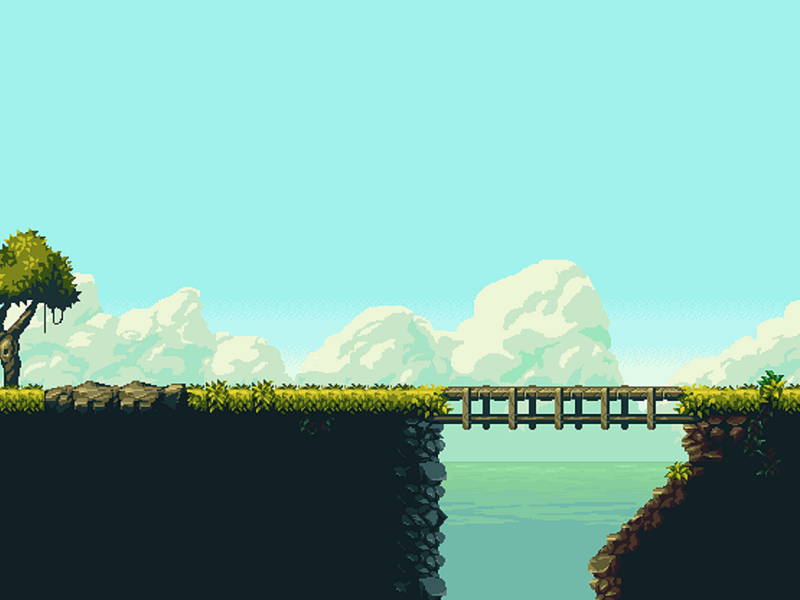
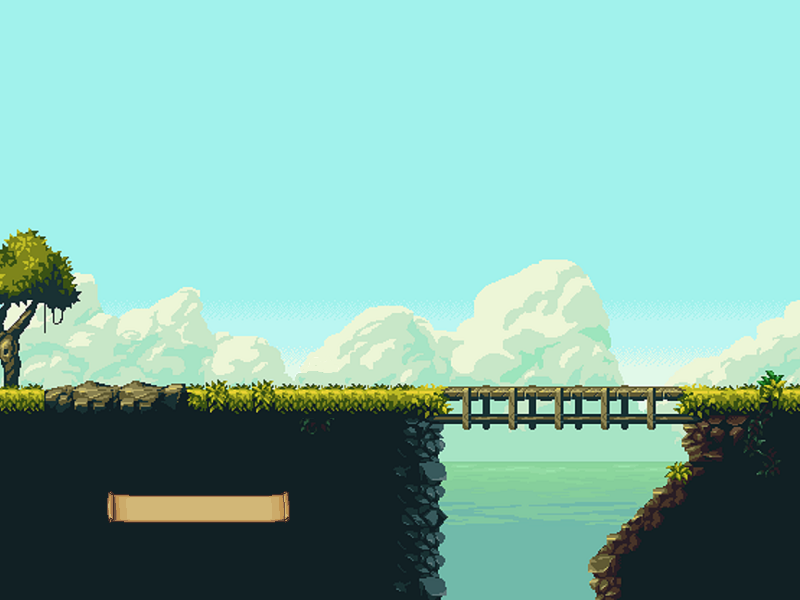
Implementado sistema de puntuacion

Changed region(s): [[0.125, 0.81, 0.375, 0.87]]

diff --git a/Juego.java b/Juego.java
@@ -1,8 +1,9 @@
+import java.util.ArrayList;
+import java.util.Iterator;
 import javafx.application.Application;
 import javafx.stage.Stage;
 import javafx.scene.layout.Pane;
 import javafx.scene.Scene;
-import java.util.ArrayList;
 import javafx.animation.Timeline;
 import javafx.animation.KeyFrame;
 import javafx.util.Duration;
@@ -11,6 +12,7 @@ import javafx.scene.image.Image;
 import javafx.scene.image.ImageView;
 import javafx.scene.input.MouseEvent;
 import javafx.scene.shape.Circle;
+import javafx.scene.control.Label;
 
 public class Juego extends Application
 {
@@ -24,13 +26,16 @@ public class Juego extends Application
     private static final int MILISEGUNDOS_POR_SEGUNDO = 1000;
     private static final ImageView BACKGROUND = new ImageView();
     private static final int DIAMETRO_DISPARO = 5;
-    private static final int TIEMPO_GENERACION_COMIDA = 5; 
+    private static final int TIEMPO_GENERACION_COMIDA = 5;
+    private static final int POSICION_X_PUNTUACION = 150;
+    private static final int POSICION_Y_PUNTUACION = 500;
+    private static final String TEXTO_PUNTUACION = "Puntuacion: ";
     private ArrayList<Enemigo> enemigos;
     private Circle disparo;
     private ArrayList<Objeto> objetos;
-    private int contadorMilisegundos;
+    private int contadorMilisegundos, puntuacion;
     private long contadorSegundos;
-    
+
     public static void main(String[] args){
         launch(args);
     }
@@ -45,13 +50,18 @@ public class Juego extends Application
         primaryStage.setResizable(false);
         primaryStage.sizeToScene();
         panel.getChildren().add(BACKGROUND);
-        
-        // Iniciamos al jugador y la coleccion de objetos:
+
+        // Iniciamos al jugador, la coleccion de objetos y la puntuacion:
         Jugador jugador = new Jugador(ANCHO_DE_LA_ESCENA, ALTO_DE_LA_ESCENA, DISTANCIA_AL_SUELO);
         panel.getChildren().add(jugador);
         disparo = new Circle (DIAMETRO_DISPARO);
         objetos = new ArrayList<Objeto>();
-        
+        puntuacion = 0;
+        Label labelPuntuacion = new Label(TEXTO_PUNTUACION + String.valueOf(puntuacion));
+        labelPuntuacion.setLayoutX(POSICION_X_PUNTUACION);
+        labelPuntuacion.setLayoutY(POSICION_Y_PUNTUACION);
+        panel.getChildren().add(labelPuntuacion);
+
         // Inicializamos a los enemigos:
         enemigos = new ArrayList<Enemigo>();
         for(int i = 0; i<= CANTIDAD_DE_ENEMIGOS; i++){
@@ -59,7 +69,7 @@ public class Juego extends Application
             enemigos.add(enemigo);
         }
         panel.getChildren().addAll(enemigos);
-        
+
         // Controles de teclado:
         escena.setOnKeyPressed(event ->{
                 if(event.getCode() == KeyCode.RIGHT){
@@ -76,7 +86,7 @@ public class Juego extends Application
                     System.exit(0);
                 }
             });
-            
+
         escena.setOnKeyReleased(event ->{
                 if(event.getCode() == KeyCode.RIGHT || event.getCode() == KeyCode.LEFT){
                     jugador.detenerMovimiento();
@@ -85,18 +95,25 @@ public class Juego extends Application
                     jugador.correr(false);
                 }
             });        
-        
+
         // Control de raton:
         escena.setOnMouseClicked((MouseEvent event) -> {
                 disparo.setCenterX(event.getX());
                 disparo.setCenterY(event.getY());
             });
-        
+
         // Creacion del timeline y el keyFrame
         contadorMilisegundos = 0;
-        
+
         Timeline timeline = new Timeline();
         KeyFrame kf = new KeyFrame(Duration.millis(MILISEGUNDOS_DEL_KEYFRAME), (event) -> {
+                    // TODO: ITERADORES!!!!
+                    // TODO: ITERADORES!!!!
+                    // TODO: ITERADORES!!!!
+                    // TODO: ITERADORES!!!!
+                    // TODO: ITERADORES!!!!
+                    // TODO: ITERADORES!!!!
+                    // TODO: ITERADORES!!!!
                     for(Enemigo enemigo : enemigos){
                         enemigo.actualizar();
                         if(enemigo.getVida() && enemigo.disparadoPor(disparo)){
@@ -106,18 +123,19 @@ public class Juego extends Application
                             panel.getChildren().add(gema);
                         }
                     }
-                    for(Objeto objeto : objetos){
-                        if(objeto.recogidoPor(jugador)){
-                            //TODO: control de puntos.
-                            
-                            
-                            
-                        }
+                    Iterator<Objeto> iteradorObjetos = objetos.iterator();
+                    while(iteradorObjetos.hasNext()){
+                        Objeto objeto = iteradorObjetos.next();
                         objeto.actualizar();
+                        if(objeto.recogidoPor(jugador)){
+                            puntuacion += objeto.getPuntos();
+                            labelPuntuacion.setText(TEXTO_PUNTUACION + String.valueOf(puntuacion));
+                            iteradorObjetos.remove();
+                        }
                     }
                     jugador.actualizar();
                     disparo.setCenterY(-ALTO_DE_LA_ESCENA);
-                    contadorMilisegundos = contadorMilisegundos + MILISEGUNDOS_DEL_KEYFRAME;
+                    contadorMilisegundos += MILISEGUNDOS_DEL_KEYFRAME;
                     if(contadorMilisegundos%MILISEGUNDOS_POR_SEGUNDO == 0){
                         contadorMilisegundos = 0;
                         contadorSegundos++;
@@ -133,7 +151,7 @@ public class Juego extends Application
         timeline.getKeyFrames().add(kf);
         timeline.setCycleCount(Timeline.INDEFINITE);
         timeline.play();
-        
+
         try{
             BACKGROUND.setImage(new Image(RUTA_IMAGEN_BACKGROUND));
         }catch(Exception e){

diff --git a/Objeto.java b/Objeto.java
@@ -2,18 +2,22 @@
 public abstract class Objeto extends Entidad
 {
     protected boolean recogido;
-    private int margenSobreSuelo = 20;
+    private static final int MARGEN_SOBRE_EL_SUELO = 20;
+    protected int puntos;
     public Objeto(float anchoDeLaEscena, float altoDeLaEscena, int distanciaAlSuelo)
     {
         super(anchoDeLaEscena, altoDeLaEscena, distanciaAlSuelo);
         recogido = false;
+        puntos = 0;
     }
     
-    public abstract int getPuntos();
+    public int getPuntos(){
+        return puntos;
+    }
     
     @Override
     public void actualizar(){
-        if(getY() < distanciaAlSuelo-margenSobreSuelo){
+        if(getY() < distanciaAlSuelo-MARGEN_SOBRE_EL_SUELO){
             setY(getY()+1);
         }
     }

diff --git a/Comida.java b/Comida.java
@@ -5,10 +5,12 @@ public class Comida extends Objeto
 {
     private static final String RUTA_SPRITE = "Recursos/GIF/items/cherry.gif";
     private static final int LADO_DEL_SPRITE = 21;
+    private static final int VALOR_EN_PUNTOS = 50;
     
     public Comida(float anchoDeLaEscena, float altoDeLaEscena, int distanciaAlSuelo)
     {
         super(anchoDeLaEscena, altoDeLaEscena, distanciaAlSuelo);
+        puntos = VALOR_EN_PUNTOS;
     }
 
     @Override
@@ -16,11 +18,6 @@ public class Comida extends Objeto
         Random rnd = new Random();
         setY(-LADO_DEL_SPRITE);
         setX(rnd.nextInt((int)anchoDeLaEscena)-LADO_DEL_SPRITE);
-    }
-    
-    @Override
-    public int getPuntos(){
-        return 0;
     }
     
     @Override

diff --git a/Gema.java b/Gema.java
@@ -4,14 +4,11 @@ public class Gema extends Objeto
 {
     private double posicionInicialX, posicionInicialY;
     private static final String RUTA_SPRITE = "Recursos/GIF/items/gem.gif";
+    private static final int VALOR_EN_PUNTOS = 500;
     public Gema(float anchoDeLaEscena, float altoDeLaEscena, int distanciaAlSuelo)
     {
         super(anchoDeLaEscena, altoDeLaEscena, distanciaAlSuelo);
-    }
-    
-    @Override
-    public int getPuntos(){
-        return 0;
+        puntos = VALOR_EN_PUNTOS;
     }
     
     @Override
